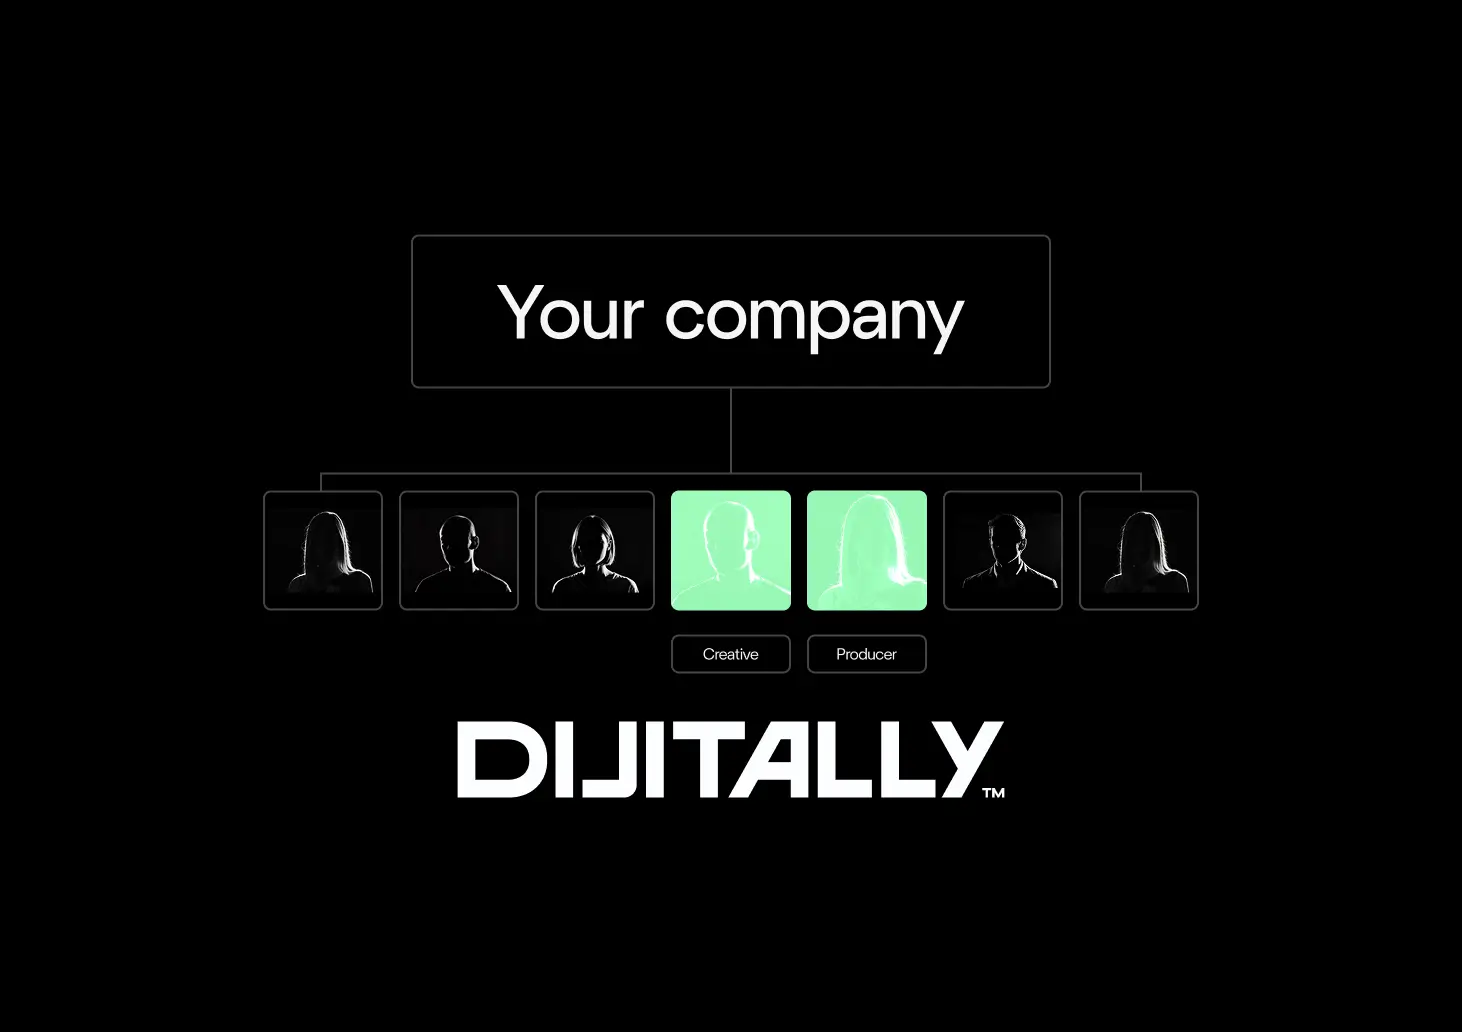
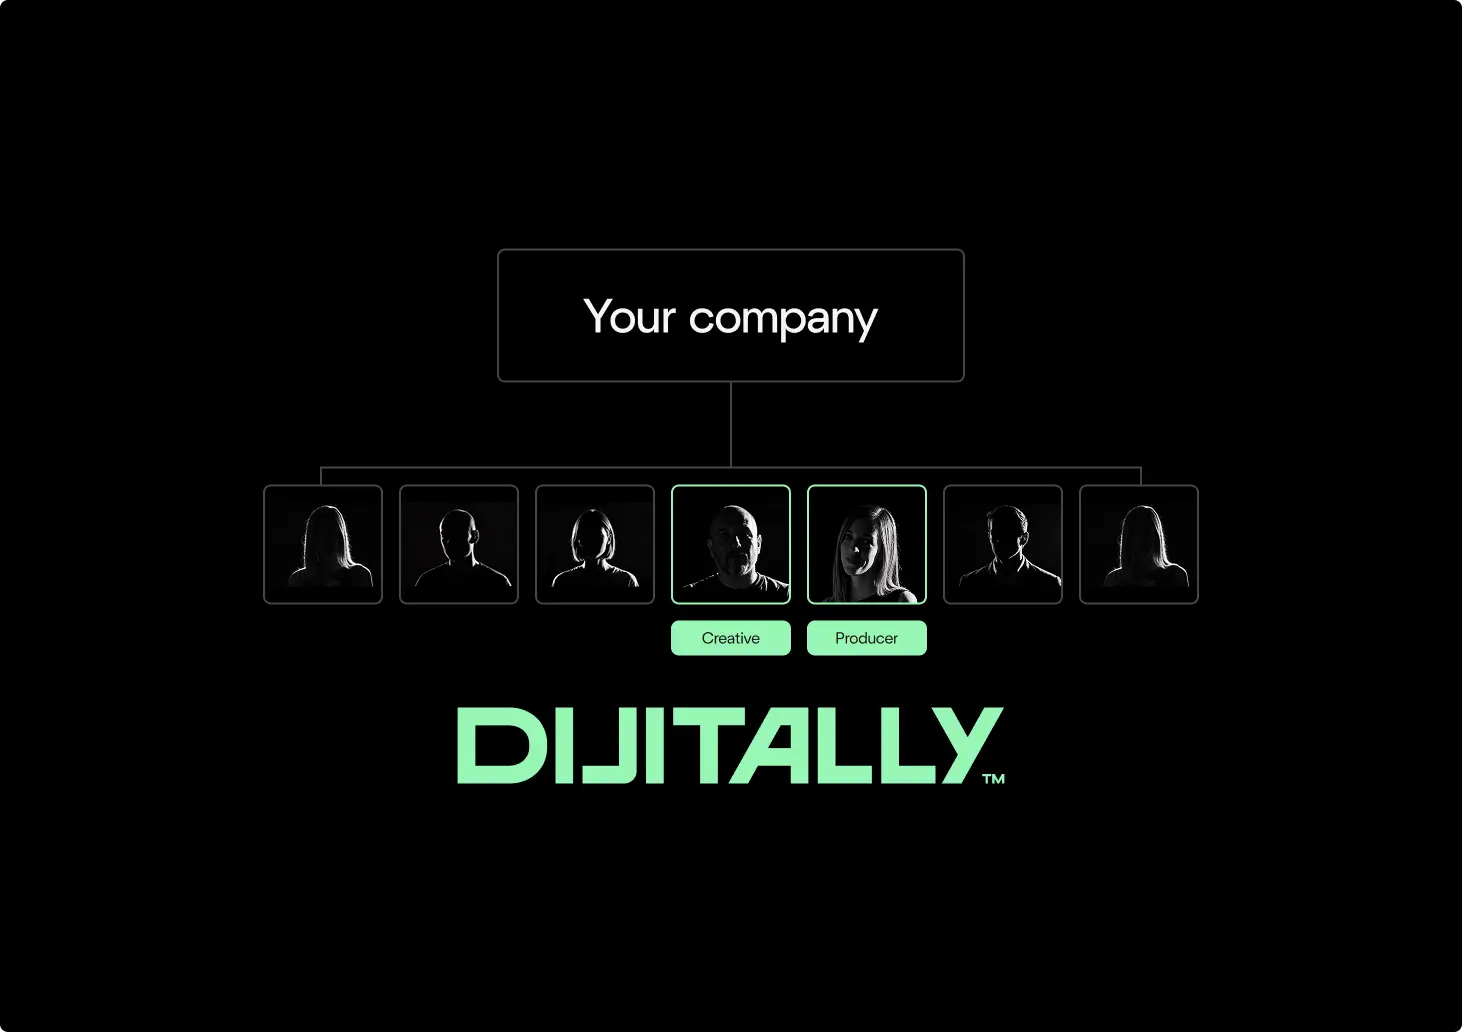
Update the Enablement artwork

diff --git a/dijitally-services.html b/dijitally-services.html
@@ -179,7 +179,7 @@
   </style>
 </head>
 <body>
-<div style="position:fixed;bottom:12px;left:12px;z-index:9999;font-family:monospace;font-size:11px;color:red;pointer-events:none;">build 58aa193</div>
+<div style="position:fixed;bottom:12px;left:12px;z-index:9999;font-family:monospace;font-size:11px;color:red;pointer-events:none;">build 46512a4</div>
 <svg style="position:absolute;width:0;height:0;overflow:hidden" aria-hidden="true">
   <defs>
     <!--
